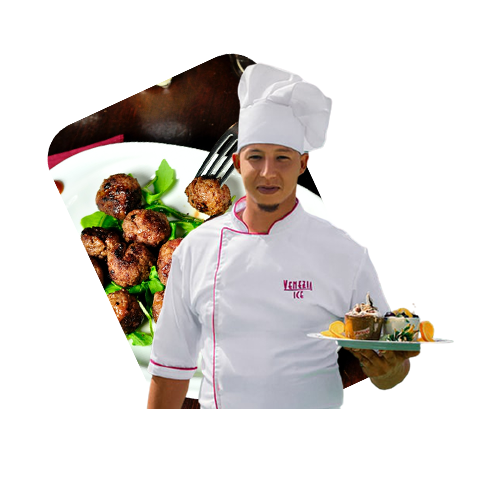
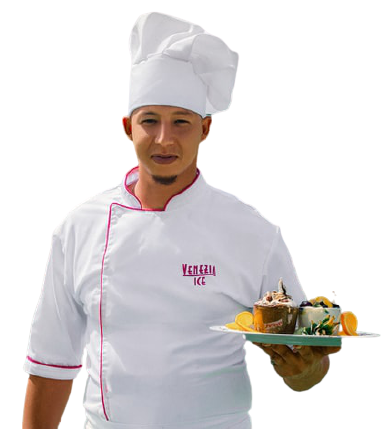
ok-last-one

diff --git a/style.css b/style.css
@@ -96,9 +96,19 @@ p {
   margin-top: 100px;
 }
 
+.chef1
+{
+  margin-top: 5%;
+  margin-left: 5%;
+  width: 390px;
+  height: 430px;
+  
+}
+
 .chef1 img {
-  width: 600px;
-  height: 600px;
+  width: 100%;
+  height: 100%;
+  
 }
 
 /* End of First Section */
